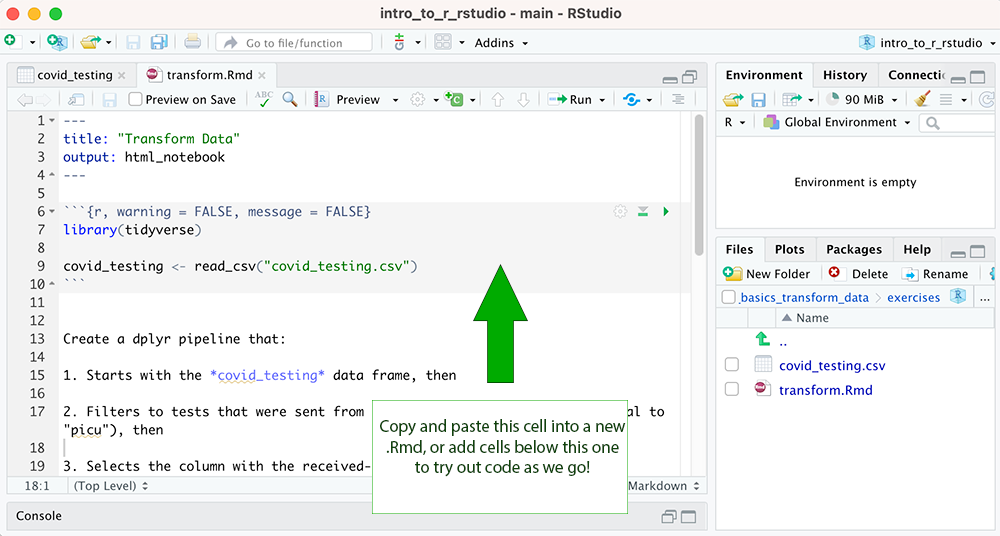
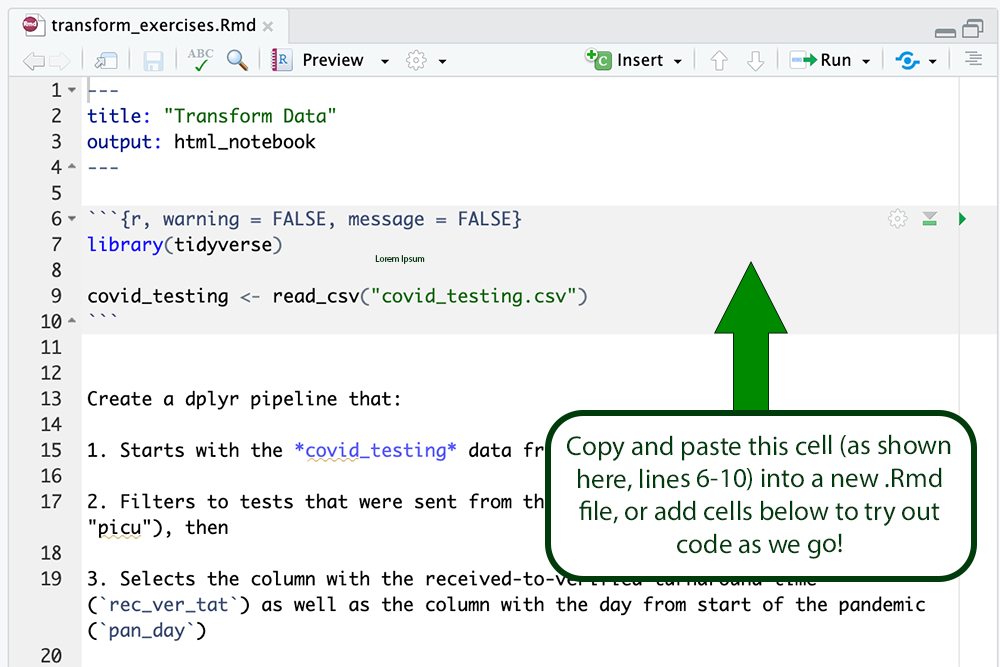
replace out of date images

diff --git a/r_basics_transform_data/r_basics_transform_data.md b/r_basics_transform_data/r_basics_transform_data.md
@@ -7,6 +7,7 @@ narrator: US English Female
 title: R Basics: Transforming Data With dplyr
 comment:  Learn how to transform (or wrangle) data using R's `dplyr` package.
 long_description: Do you want to learn how to work with tabular (table-shaped, with rows and columns) data in R?  In this module you'll learn in particular how to select just the rows and columns you want to work with, how to create new columns, and how to create multi-step transformations to get your data ready for visualization or statistical analysis.  This module teaches the use of the `dplyr` package, which is part of the `tidyverse` suite of packages.
+estimated_time: 1 hour
 
 @learning_objectives  
 
@@ -83,7 +84,7 @@ script: https://kit.fontawesome.com/83b2343bd4.js
 
 **Is this module right for me?** @long_description
 
-**Estimated time to completion:** 1 hour
+**Estimated time to completion:** @estimated_time
 
 **Pre-requisites**
 
@@ -177,10 +178,10 @@ If you already completed this work for a previous module, and it's been a while 
 
 You can use this module in a couple of different ways:
 
-* If you have experience working in R markdown and want to try out some of the code we share with you as we go along, please go ahead and open the "r\_basics\_transform\_data" directory, then the "exercises" directory.  You can open "transform.Rmd" and add some code chunks for your own experimentation.  Or, create a new R Markdown file that begins with reading in the .csv file in the "exercises" directory.
+* If you have experience working in R markdown and want to try out some of the code we share with you as we go along, please go ahead and open the "r\_basics\_transform\_data" directory, then open `transform_exercises.Rmd` and add some code chunks for your own experimentation.  Or, create a new R Markdown file that begins with reading in the .csv file in the "exercises" directory.
 * Not sure you are ready to DIY?  Prefer to learn some concepts first, then do some hands-on work at the end?  Then just follow our steps and we'll guide you through the exercise file when you reach the end of the module.  No need to worry about trying out the code along the way.
 
-![RStudio showing the transform.Rmd file.  A text box suggests copying and pasting the first code chunk in transform.Rmd into a new R Markdown file, or adding chunks below the first chunk for experimentation.](media/rstudio_exercises.png)<!-- style = "border: 1px solid rgb(var(--color-highlight)); max-width: 800px;" -->
+![RStudio showing the transform_exercises.Rmd file.  A text box suggests copying and pasting the first code chunk in transform_exercises.Rmd into a new R Markdown file, or adding chunks below the first chunk for experimentation.](media/rstudio_exercises.png)<!-- style = "border: 1px solid rgb(var(--color-highlight)); max-width: 800px;" -->
 
 ### The `dplyr` Package
 
@@ -717,9 +718,9 @@ If you already completed this work for a previous module, and it's been a while 
 
 ### Work On Data Transformation
 
-Within the `r_basics_transform_data` folder, please open the `exercises` folder and then open `transform.Rmd` to work through the exercises.  You'll see something like the below.
+Within the `r_basics_transform_data` folder, please open `transform_exercises.Rmd` to work through the exercises.  You'll see something like the below.
 
-![RStudio window showing transform.Rmd](media/r_transform_exercise.png)<!-- style = "max-width: 800px; border: 1px solid rgb(var(--color-highlight))" -->
+![RStudio window showing transform_exercises.Rmd](media/r_transform_exercise.png)<!-- style = "max-width: 800px; border: 1px solid rgb(var(--color-highlight))" -->
 
 To work in this file:
 
@@ -735,11 +736,7 @@ Note -- in the cloud RStudio using Binder, we've already installed `tidyverse`. 
 
 ### Solutions for Data Transformation
 
-You can find the solution file in the "r\_basics\_transform\_data" directory, within "**solutions**".  Simply open the version of `transform.Rmd` in that folder to see the answers.  
-
-Not sure how to do that?  You can use the green "up" arrow in the file browser within RStudio, or click on the "breadcrumbs", to get from the "exercises" directory back up to the "r\_basics\_transform\_data" directory.  Then you can open the "solutions" directory and see the solution file `transform.Rmd`.
-
-![RStudio file browser, with the "parent directory" up arrow and the breadcrumbs navigation highlighted](media/file_browser_navigation.png)<!-- style = "max-width: 600px; border: 1px solid rgb(var(--color-highlight))" -->
+You can find the solution file in the "r\_basics\_transform\_data" directory.  Simply open `transform_solutions.Rmd` in that folder to see the answers.  
 
 In the first task, you were asked to create a dplyr pipeline:
 
